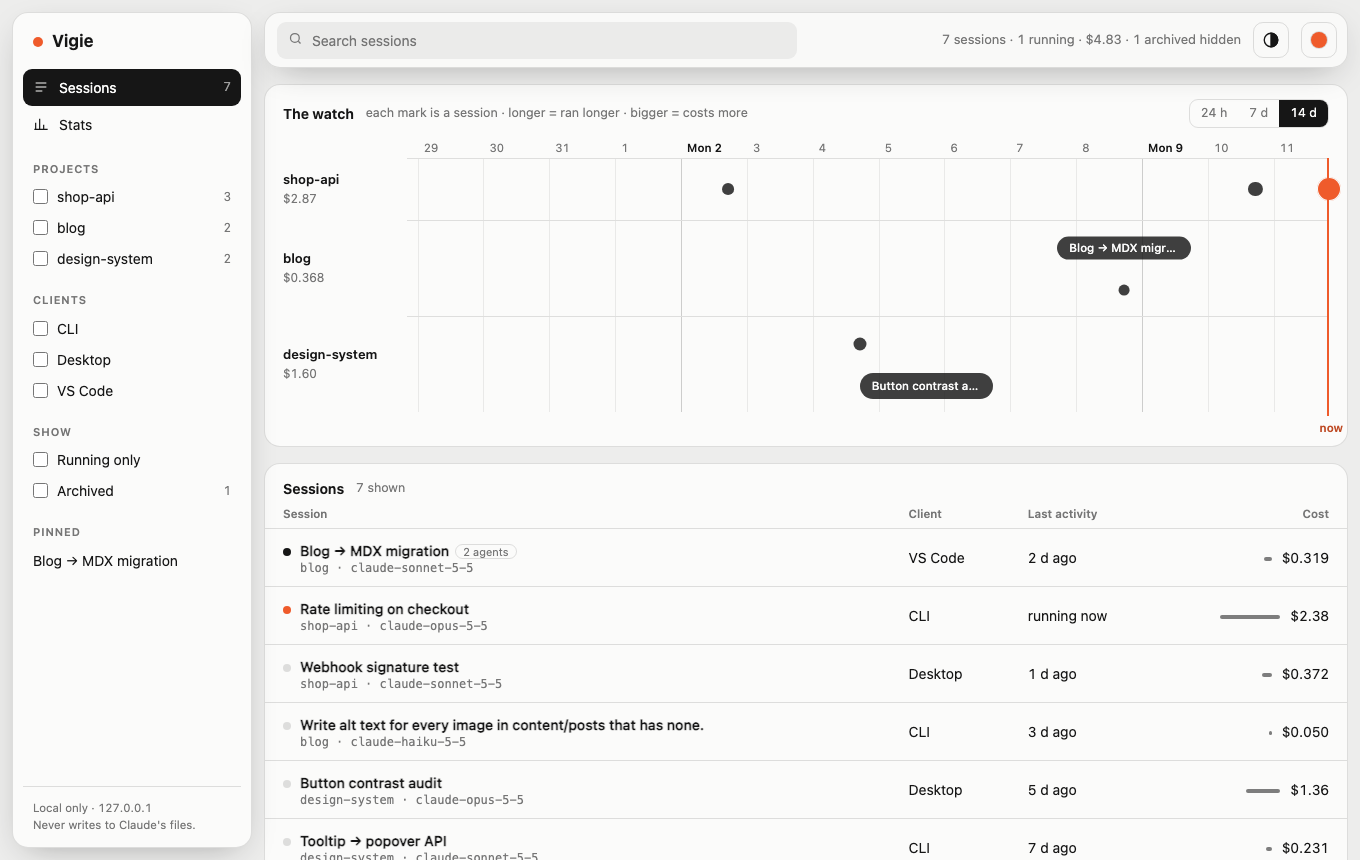
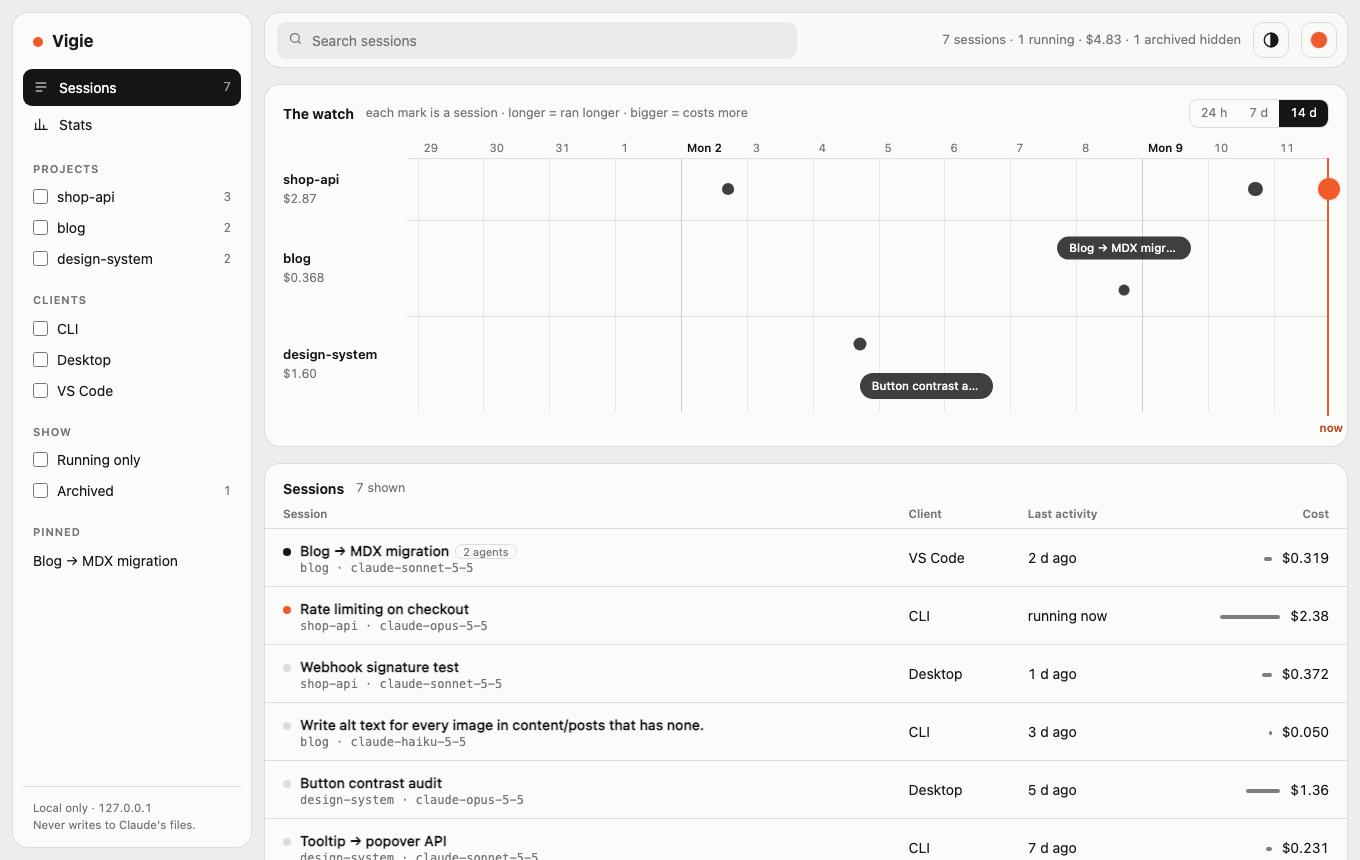
Remove the glow around the floating header and sidebar
In the dark theme the shadow was derived from the text color, so it read as a light halo.
Both cards now keep only their border; the shadow of dropdowns and tooltips is a plain
dark one in both themes. Screenshots updated.

Changed region(s): [[0.2162, 0.0605, 0.9574, 0.0907], [0.0309, 0.9674, 0.1544, 0.9977]]

diff --git a/ui/style.css b/ui/style.css
@@ -11,7 +11,7 @@
   --muted: color-mix(in srgb, var(--fg) 58%, var(--bg));
   --accent-ink: color-mix(in srgb, var(--accent) 78%, var(--fg)); /* accent used as text: darker / lighter for contrast */
   --gap: 12px; /* inset of the floating sidebar and header */
-  --shadow: 0 10px 34px -14px color-mix(in srgb, var(--fg) 38%, transparent);
+  --shadow: 0 10px 34px -14px rgb(0 0 0 / 40%); /* dark in both themes: a light shadow on a dark page looks like a glow */
   --sans: system-ui, -apple-system, "Segoe UI", sans-serif;
   --mono: ui-monospace, "SF Mono", Menlo, Consolas, monospace;
   color-scheme: light;
@@ -53,7 +53,7 @@ input[type="text"]:focus, input[type="search"]:focus { background: var(--card); 
 .side {
   position: sticky; top: 12px; align-self: start; height: calc(100vh - 24px); margin: 12px 0 12px 12px;
   display: flex; flex-direction: column; overflow: auto; padding: 12px 10px;
-  background: var(--card); border: 1px solid var(--line); border-radius: 16px; box-shadow: var(--shadow);
+  background: var(--card); border: 1px solid var(--line); border-radius: 16px;
 }
 .side-top { display: flex; align-items: center; justify-content: space-between; }
 .side-close { display: none; padding: 2px 9px; margin: -8px 2px 0 0; }
@@ -84,14 +84,14 @@ input[type="text"]:focus, input[type="search"]:focus { background: var(--card); 
 .foot { margin-top: auto; padding: 12px 10px 2px; border-top: 1px solid var(--line); font-size: 11.5px; color: var(--muted); }
 
 .col { min-width: 0; }
-/* The header floats like the sidebar: a card inset by --gap, with its border and shadow.
+/* The header floats like the sidebar: a card inset by --gap, with its border (no shadow, no glow).
    The strip above it (the sticky ::before) hides the content that scrolls through the gap. */
 .col::before { content: ""; position: sticky; top: 0; z-index: 19; display: block; height: var(--gap); margin-bottom: calc(-1 * var(--gap)); background: var(--page); }
 header {
   position: sticky; top: var(--gap); z-index: 20; display: flex; align-items: center; gap: 12px;
   height: 56px; max-width: 1320px; margin: var(--gap) var(--gap) 0; padding: 0 10px 0 12px;
   background: color-mix(in srgb, var(--card) 90%, transparent); backdrop-filter: blur(12px);
-  border: 1px solid var(--line); border-radius: 16px; box-shadow: var(--shadow);
+  border: 1px solid var(--line); border-radius: 16px;
 }
 .search { position: relative; flex: 1; max-width: 520px; }
 .search input { width: 100%; padding-left: 34px; }
